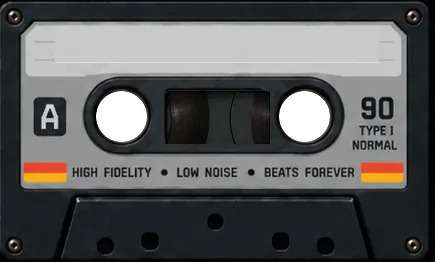
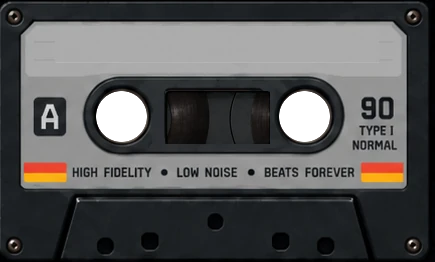
Remove white cassette label and set beat text black

Changed region(s): [[0.0598, 0.0916, 0.9264, 0.3053]]

diff --git a/css/looper.css b/css/looper.css
@@ -137,7 +137,7 @@
 @keyframes looperReelSpin{to{transform:rotate(360deg)}}
 #looper .cassetteBeatName{
   z-index:3;top:8.40%;left:12.87%;width:74.71%;height:17.56%;display:flex;align-items:center;justify-content:center;overflow:hidden;
-  color:#1b1d1e;background:transparent;border:0;
+  color:#000;background:transparent;border:0;
   font:900 clamp(13px,1.82vw,26px)/1 var(--font-condensed,"Arial Narrow",Arial,sans-serif);letter-spacing:.015em;text-align:center;text-overflow:ellipsis;white-space:nowrap;text-shadow:0 1px rgba(255,255,255,.35);
 }
 
